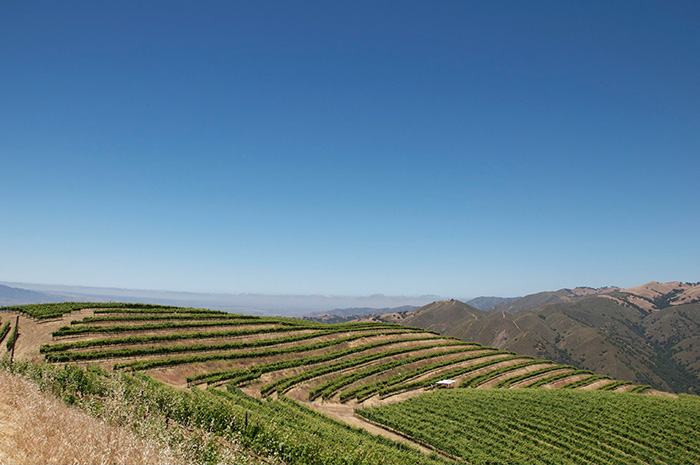
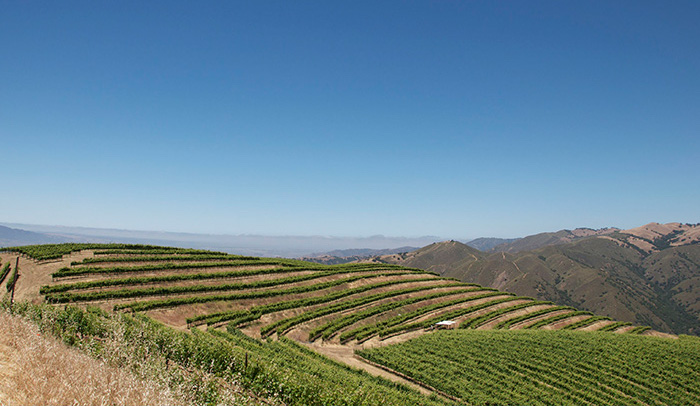
text position

diff --git a/css/main.css b/css/main.css
@@ -160,7 +160,7 @@ nav a#pull{
 #signup {
   width: 100%;
   background-image:linear-gradient(rgba(0,0,0,0.5),rgba(0, 0, 0, 0.5)), url("../images/corks.jpg");
-  height:50vh;
+  height:60vh;
   background-position: center;
   background-size: cover;
 }
@@ -202,7 +202,7 @@ nav a#pull{
   font-family: 'Roboto', Helvetica, sans-serif;
   text-transform: uppercase;
   text-align: center;
-  margin-top: 7%;
+  margin-top: 15%;
 }
 #club h2:after{
   width: 200px;
@@ -218,7 +218,7 @@ nav a#pull{
   margin-top: 3%;
   text-align: center;
   line-height: 1.6em;
-  margin-bottom: 10%;
+  margin-bottom: 20%;
 }
 
 
@@ -446,22 +446,36 @@ nav a#pull{
 
 /*Vineyards Page Styling*/
 #lester p, #tondre p, #flocchini p, #springhill p{
-  margin: 20% auto;
-  text-align: center;
+  margin-top: 5%;
+  margin-bottom: 20%;
+  text-align: justify;
 }
 
 #l-vine h1, #s-vine h1, #f-vine h1, #t-vine h1{
-  margin-top: 50%;
+  margin-top: 30%;
   font-size: 3em;
   text-align: center;
   font-weight: 300;
 }
 
+#lester h2, #tondre h2, #flocchini h2, #springhill h2{
+  margin-top: 20%;
+  text-align: center;
+}
+#lester h2:after, #tondre h2:after, #flocchini h2:after, #springhill h2:after{
+  width: 160px;
+  height: 2px;
+  background-color: #990000;
+  display: block;
+  content: "";
+  margin:0 auto;
+  margin-top: 20px;
+}
 
 #l-vine {
   width: 100%;
   background-image:linear-gradient(rgba(0,0,0,0.3),rgba(0, 0, 0, 0.3)), url("../images/lester-vineyard.jpg");
-  height:100vh;
+  height:80vh;
   background-position: center;
   background-size: cover;
   background-attachment: fixed;
@@ -471,7 +485,7 @@ nav a#pull{
 #s-vine {
   width: 100%;
   background-image:linear-gradient(rgba(0,0,0,0.3),rgba(0, 0, 0, 0.3)), url("../images/vineyard-sunset.jpg");
-  height:100vh;
+  height:80vh;
   background-position: center;
   background-size: cover;
   background-attachment: fixed;
@@ -481,7 +495,7 @@ nav a#pull{
 #f-vine {
   width: 100%;
   background-image:linear-gradient(rgba(0,0,0,0.3),rgba(0, 0, 0, 0.3)), url("../images/f-vineyard.jpg");
-  height:100vh;
+  height:80vh;
   background-position: center;
   background-size: cover;
   background-attachment: fixed;
@@ -491,7 +505,7 @@ nav a#pull{
 #t-vine {
   width: 100%;
   background-image:linear-gradient(rgba(0,0,0,0.3),rgba(0, 0, 0, 0.3)), url("../images/vineyard3.jpg");
-  height:100vh;
+  height:80vh;
   background-position: center;
   background-size: cover;
   background-attachment: fixed;

diff --git a/vineyards.html b/vineyards.html
@@ -49,6 +49,7 @@
 <div id="lester" class="container">
   <div class="row">
     <div class="col-sm-8 col-sm-offset-2">
+      <h2>Lester Family Vineyard</h2>
       <p>
                   Lester is a classic cold-climate location, with sandy, loamy soil.  The
           sandy soils are a result of the region's origin as a sea bed; geological
@@ -93,6 +94,7 @@
 <div id="springhill" class="container">
   <div class="row">
     <div class="col-sm-8 col-sm-offset-2">
+      <h2>Spring Hill Vineyard</h2>
       <p>
               2010 was our first vintage working with Karen and Chris London of
       Spring Hill Ranch and Vineyard.  Their vineyard is a west-facing hillside,
@@ -126,6 +128,7 @@
 <div id="flocchini" class="container">
   <div class="row">
     <div class="col-sm-8 col-sm-offset-2">
+      <h2>Flocchini Vineyard</h2>
       <p>
                 Scott got a call from a fellow winemaker during the harvest of 2008.  His
         friend knew of a promising Syrah vineyard, in the Sonoma Coast
@@ -164,6 +167,7 @@
 <div id="tondre" class="container">
   <div class="row">
     <div class="col-sm-8 col-sm-offset-2">
+      <h2>Tondré Grapefield</h2>
       <p>
               The vineyard is located in the Santa Lucia Highlands.  SLH is known
       more for Pinot Noir but the cool, coastal influence from Monterrey Bay
